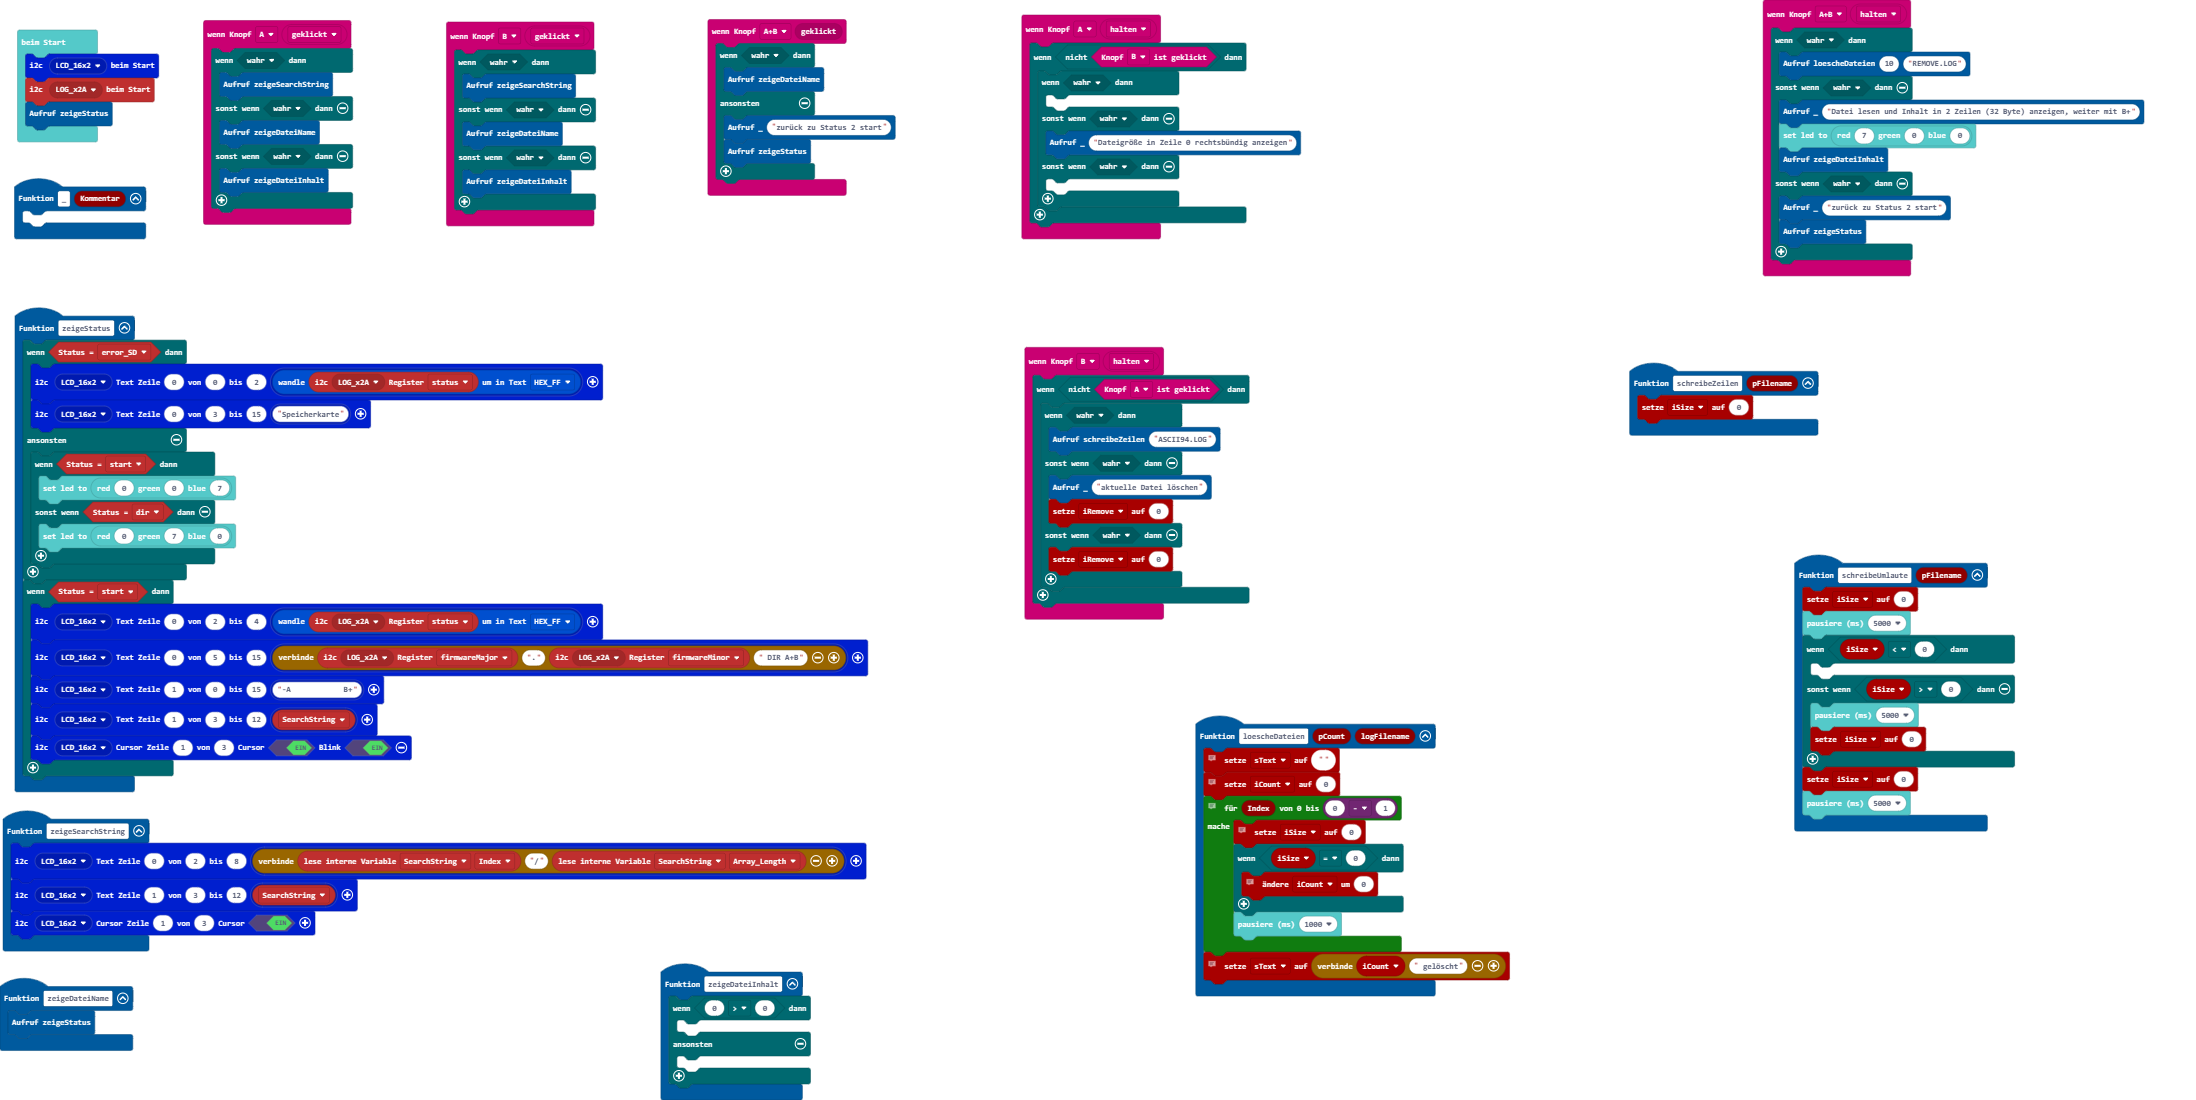
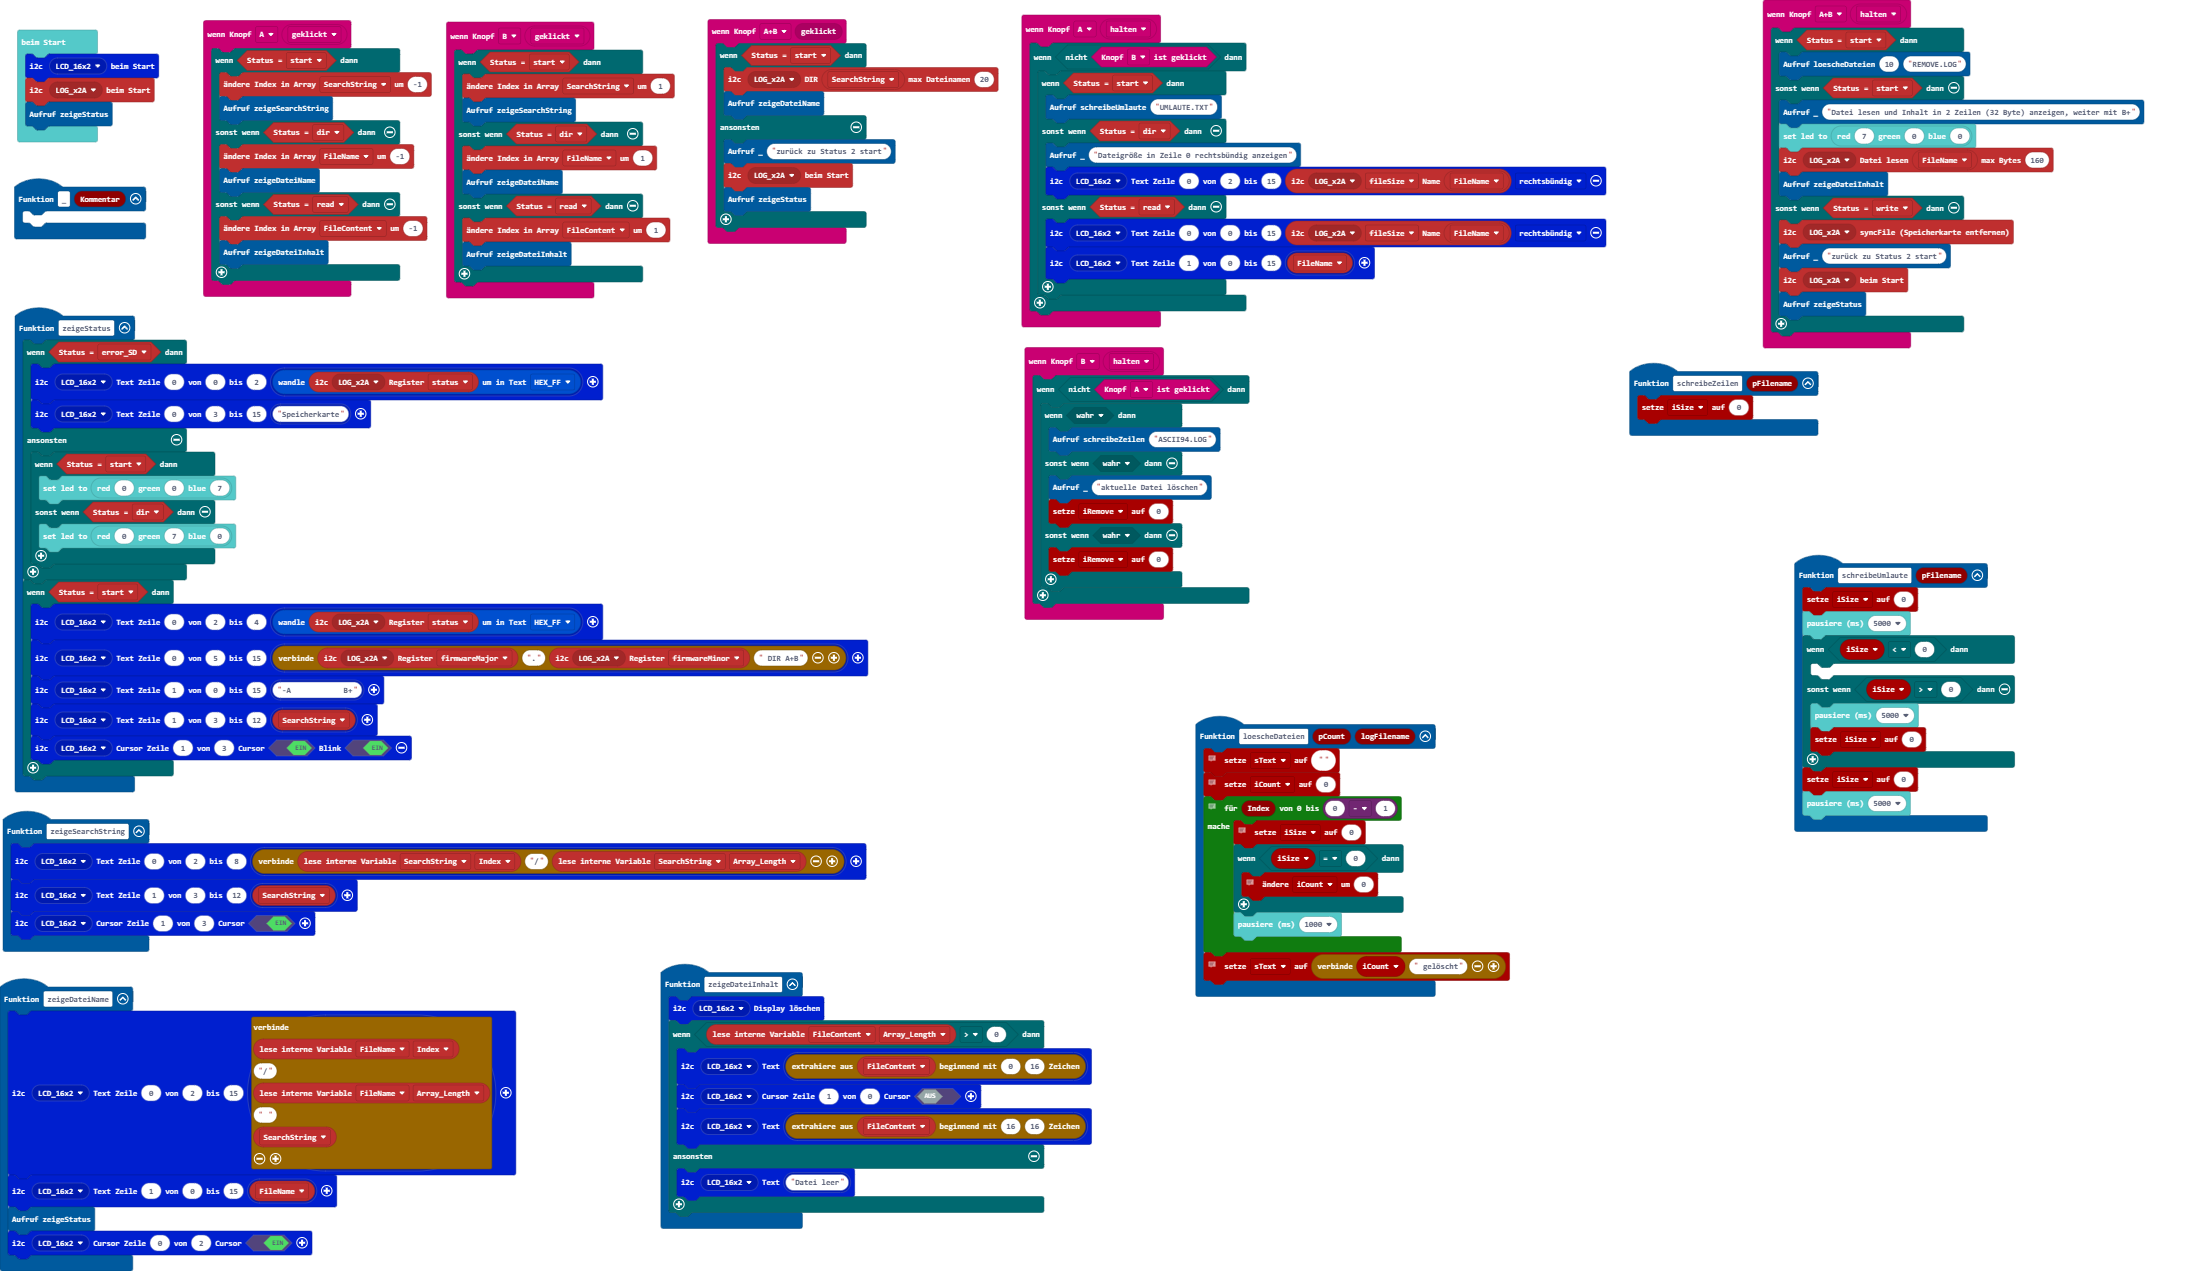
Aktualisiere main.blocks, main.ts

diff --git a/main.ts b/main.ts
@@ -11,10 +11,13 @@ function schreibeUmlaute (pFilename: string) {
     basic.pause(5000)
 }
 function zeigeDateiInhalt () {
-    if (0 > 0) {
-    	
+    lcd16x2rgb.clearScreen(lcd16x2rgb.lcd16x2_eADDR(lcd16x2rgb.eADDR_LCD.LCD_16x2))
+    if (qwiicopenlog.getInt(qwiicopenlog.eArray.FileContent, qwiicopenlog.eInt.Array_Length) > 0) {
+        lcd16x2rgb.writeLCD(lcd16x2rgb.lcd16x2_eADDR(lcd16x2rgb.eADDR_LCD.LCD_16x2), lcd16x2rgb.lcd16x2_text(qwiicopenlog.getString(qwiicopenlog.eArray.FileContent).substr(0, 16)))
+        lcd16x2rgb.setCursorCB(lcd16x2rgb.lcd16x2_eADDR(lcd16x2rgb.eADDR_LCD.LCD_16x2), 1, 0, false)
+        lcd16x2rgb.writeLCD(lcd16x2rgb.lcd16x2_eADDR(lcd16x2rgb.eADDR_LCD.LCD_16x2), lcd16x2rgb.lcd16x2_text(qwiicopenlog.getString(qwiicopenlog.eArray.FileContent).substr(16, 16)))
     } else {
-    	
+        lcd16x2rgb.writeLCD(lcd16x2rgb.lcd16x2_eADDR(lcd16x2rgb.eADDR_LCD.LCD_16x2), lcd16x2rgb.lcd16x2_text("Datei leer"))
     }
 }
 function zeigeSearchString () {
@@ -23,11 +26,14 @@ function zeigeSearchString () {
     lcd16x2rgb.setCursorCB(lcd16x2rgb.lcd16x2_eADDR(lcd16x2rgb.eADDR_LCD.LCD_16x2), 1, 3, true)
 }
 input.onButtonEvent(Button.A, ButtonEvent.Click, function () {
-    if (true) {
+    if (qwiicopenlog.isStatus(qwiicopenlog.eStatus.start)) {
+        qwiicopenlog.changeIndex(qwiicopenlog.eArray.SearchString, -1)
         zeigeSearchString()
-    } else if (true) {
+    } else if (qwiicopenlog.isStatus(qwiicopenlog.eStatus.dir)) {
+        qwiicopenlog.changeIndex(qwiicopenlog.eArray.FileName, -1)
         zeigeDateiName()
-    } else if (true) {
+    } else if (qwiicopenlog.isStatus(qwiicopenlog.eStatus.read)) {
+        qwiicopenlog.changeIndex(qwiicopenlog.eArray.FileContent, -1)
         zeigeDateiInhalt()
     }
 })
@@ -35,13 +41,18 @@ function schreibeZeilen (pFilename: string) {
     iSize = 0
 }
 function zeigeDateiName () {
+    lcd16x2rgb.writeText(lcd16x2rgb.lcd16x2_eADDR(lcd16x2rgb.eADDR_LCD.LCD_16x2), 0, 2, 15, lcd16x2rgb.lcd16x2_text("" + qwiicopenlog.getInt(qwiicopenlog.eArray.FileName, qwiicopenlog.eInt.Index) + "/" + qwiicopenlog.getInt(qwiicopenlog.eArray.FileName, qwiicopenlog.eInt.Array_Length) + " " + qwiicopenlog.getString(qwiicopenlog.eArray.SearchString)))
+    lcd16x2rgb.writeText(lcd16x2rgb.lcd16x2_eADDR(lcd16x2rgb.eADDR_LCD.LCD_16x2), 1, 0, 15, lcd16x2rgb.lcd16x2_text(qwiicopenlog.getString(qwiicopenlog.eArray.FileName)))
     zeigeStatus()
+    lcd16x2rgb.setCursorCB(lcd16x2rgb.lcd16x2_eADDR(lcd16x2rgb.eADDR_LCD.LCD_16x2), 0, 2, true)
 }
 input.onButtonEvent(Button.AB, input.buttonEventClick(), function () {
-    if (true) {
+    if (qwiicopenlog.isStatus(qwiicopenlog.eStatus.start)) {
+        qwiicopenlog.listDirectory(qwiicopenlog.qwiicopenlog_eADDR(qwiicopenlog.eADDR.LOG_x2A), qwiicopenlog.getString(qwiicopenlog.eArray.SearchString), 20)
         zeigeDateiName()
     } else {
         _("zurück zu Status 2 start")
+        qwiicopenlog.checkStatusRegister(qwiicopenlog.qwiicopenlog_eADDR(qwiicopenlog.eADDR.LOG_x2A))
         zeigeStatus()
     }
 })
@@ -65,11 +76,14 @@ function zeigeStatus () {
     }
 }
 input.onButtonEvent(Button.B, ButtonEvent.Click, function () {
-    if (true) {
+    if (qwiicopenlog.isStatus(qwiicopenlog.eStatus.start)) {
+        qwiicopenlog.changeIndex(qwiicopenlog.eArray.SearchString, 1)
         zeigeSearchString()
-    } else if (true) {
+    } else if (qwiicopenlog.isStatus(qwiicopenlog.eStatus.dir)) {
+        qwiicopenlog.changeIndex(qwiicopenlog.eArray.FileName, 1)
         zeigeDateiName()
-    } else if (true) {
+    } else if (qwiicopenlog.isStatus(qwiicopenlog.eStatus.read)) {
+        qwiicopenlog.changeIndex(qwiicopenlog.eArray.FileContent, 1)
         zeigeDateiInhalt()
     }
 })
@@ -78,12 +92,14 @@ function _ (Kommentar: string) {
 }
 input.onButtonEvent(Button.A, ButtonEvent.Hold, function () {
     if (!(input.buttonIsPressed(Button.B))) {
-        if (true) {
-        	
-        } else if (true) {
+        if (qwiicopenlog.isStatus(qwiicopenlog.eStatus.start)) {
+            schreibeUmlaute("UMLAUTE.TXT")
+        } else if (qwiicopenlog.isStatus(qwiicopenlog.eStatus.dir)) {
             _("Dateigröße in Zeile 0 rechtsbündig anzeigen")
-        } else if (true) {
-        	
+            lcd16x2rgb.writeText(lcd16x2rgb.lcd16x2_eADDR(lcd16x2rgb.eADDR_LCD.LCD_16x2), 0, 2, 15, qwiicopenlog.readInt32BE(qwiicopenlog.qwiicopenlog_eADDR(qwiicopenlog.eADDR.LOG_x2A), qwiicopenlog.eWriteStringReadInt32BE.fileSize, qwiicopenlog.getString(qwiicopenlog.eArray.FileName)), lcd16x2rgb.eAlign.right)
+        } else if (qwiicopenlog.isStatus(qwiicopenlog.eStatus.read)) {
+            lcd16x2rgb.writeText(lcd16x2rgb.lcd16x2_eADDR(lcd16x2rgb.eADDR_LCD.LCD_16x2), 0, 0, 15, qwiicopenlog.readInt32BE(qwiicopenlog.qwiicopenlog_eADDR(qwiicopenlog.eADDR.LOG_x2A), qwiicopenlog.eWriteStringReadInt32BE.fileSize, qwiicopenlog.getString(qwiicopenlog.eArray.FileName)), lcd16x2rgb.eAlign.right)
+            lcd16x2rgb.writeText(lcd16x2rgb.lcd16x2_eADDR(lcd16x2rgb.eADDR_LCD.LCD_16x2), 1, 0, 15, lcd16x2rgb.lcd16x2_text(qwiicopenlog.getString(qwiicopenlog.eArray.FileName)))
         }
     }
 })
@@ -119,14 +135,17 @@ function loescheDateien (pCount: number, logFilename: string) {
     sText = "" + iCount + " gelöscht"
 }
 input.onButtonEvent(Button.AB, ButtonEvent.Hold, function () {
-    if (true) {
+    if (qwiicopenlog.isStatus(qwiicopenlog.eStatus.start)) {
         loescheDateien(10, "REMOVE.LOG")
-    } else if (true) {
+    } else if (qwiicopenlog.isStatus(qwiicopenlog.eStatus.start)) {
         _("Datei lesen und Inhalt in 2 Zeilen (32 Byte) anzeigen, weiter mit B+")
         basic.setLedColor(basic.rgb(7, 0, 0))
+        qwiicopenlog.readFile(qwiicopenlog.qwiicopenlog_eADDR(qwiicopenlog.eADDR.LOG_x2A), qwiicopenlog.getString(qwiicopenlog.eArray.FileName), 160)
         zeigeDateiInhalt()
-    } else if (true) {
+    } else if (qwiicopenlog.isStatus(qwiicopenlog.eStatus.write)) {
+        qwiicopenlog.syncFile(qwiicopenlog.qwiicopenlog_eADDR(qwiicopenlog.eADDR.LOG_x2A))
         _("zurück zu Status 2 start")
+        qwiicopenlog.checkStatusRegister(qwiicopenlog.qwiicopenlog_eADDR(qwiicopenlog.eADDR.LOG_x2A))
         zeigeStatus()
     }
 })
